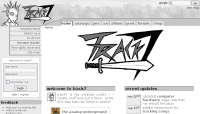
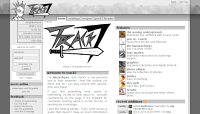
update color scheme screenshots; fix size of screenshots on guest color selection page

diff --git a/style/user-style.css.php b/style/user-style.css.php
@@ -32,7 +32,7 @@ ul#colorchoice a img {
   border: 1px solid #<?=MEDIUM; ?>;
   margin: 0 auto 5px;
   width: 200px;
-  height: 144px;
+  height: 114px;
 }
 ul#colorchoice a:hover,
 ul#colorchoice a:hover img {
